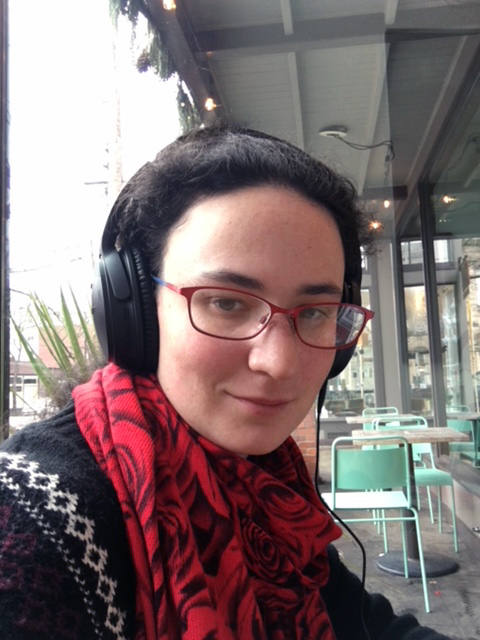
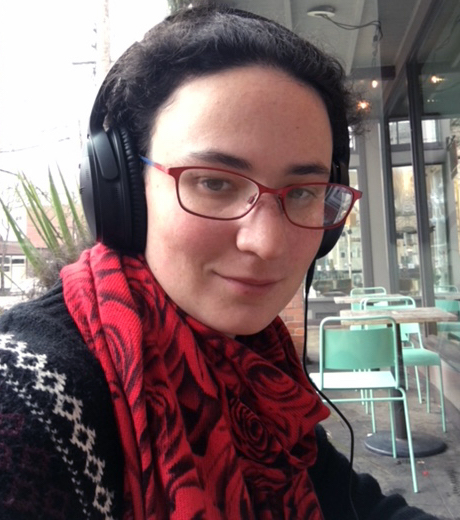
From Sam

diff --git a/index.html b/index.html
@@ -8,9 +8,38 @@
   </head>
 
   <body>
+    <center>
+      <table border="0" cellpadding="0" cellspacing="0">
+        <tbody>
     <h1>Molly Carton</h1>
 
-    <img src="icon_2019.JPG" style="width:120px;height:160px;">
+    
+
+        <tr>
+      <td width="220"><img src="icon_2019.JPG" style="width:115px;height:130px;">
+       </td>
+      <td width="500"><b><font size="5">Molly Carton</b></font>
+      <p>PhD Candidate </p>
+
+      <p><font face="Times New Roman"><font face="Arial"><a href="http://www.me.uw.edu/">Department of Mechanical Engineering</a><br />
+      <a href="http://www.uw.edu/">University of Washington, Seattle</a><br />
+      Email: <font size="2"><b>mcarton AT uw DOT edu</b></font></font></font></p>
+      </td>
+    </tr>
+
+<tr>
+<td align="left" colspan="3" height="20" valign="top">
+I am a PhD student in the Transformative Robotics Lab in the Department of Mechanical Engineering, University of Washington, Seattle.
+
+I recieved my Bachelors in Physics at Princeton University in 2014. I have a Masters in Applied Math from UW Seattle (Spring 2018).  
+
+</td> </tr>
+
+
+<tr>
+<td align="left" colspan="3" height="20" valign="top">
+<h2> Research Interests </h2>
+
 <!--
    <p>
    I am a PhD student in the Transformative Robotics Lab at the University of Washington, Seattle.
@@ -28,6 +57,11 @@
     </p>
   -->
 
+</td> </tr>
+
+
+<tr>
+<td align="left" colspan="3" height="20" valign="top" >
 <p>
 
 <h2> Publications </h2>
@@ -35,40 +69,46 @@
 <table>
   <col width="120">
   <col width="550">
+
+ 
   </tr>
     </td>
-    <td> title </td>
+    <td> ASME </td>
     <td>
-    Molly Carton
+    Yurtoglu, M., Carton, M, and Storti, D. "Treat All Integrals as Volume Integrals: A Unified, Parallel, Grid-Based Method for Evaluation of Volume, Surface, and Path Integrals on Implicitly Defined Domains." ASME J. Comput. Inf. Sci. Eng 18.2 (2018): 021013.
     </td>
   </tr>
-<!--
+
   <tr>
     <td>
       <table>
         <tr>
-         <td> SIGGRAPH ASIA 2019 </td>
+         <td> SFF 2019 </td>
          </tr>
       </table>
     </td>
     <td>
+Carton, M., and Ganter, M. Fast and Simple Printing of Graded Auxetic Structures
+      </td>
+    <td>
       
-      <a href="docs/siga19-cr.pdf">pdf</a>
-      <a href="https://grail.cs.washington.edu/projects/carpentrycompiler/">website</a>
-      <a href="https://www.washington.edu/news/2019/12/02/carpentry-compiler/">UW news</a>
-      <a href="http://www.dailyuw.com/science/article_5a21a1ce-5c3a-11ea-bf1d-e3dabdecfbbc.html">The Daily of UW</a>
+
+      <a href="blah.pdf">slides</a>
     </td>
     <td>
   </tr>
-    </td>
--->
+
+</td> </tr>
+
+
+
+
 
   <tr>
     <td>Senior thesis, April 2014</td>
-    <td> Curvature Relocation of MreB Using AFM Control of Cell Shape </td>
+    <td> Molly Carton. Curvature Relocation of MreB Using AFM Control of Cell Shape. </td>
     <td>
-    Molly Carton. 
-    <a href="http://arks.princeton.edu/ark:/88435/dsp01j098zb29w">website</a>
+    <a href="http://arks.princeton.edu/ark:/88435/dsp01j098zb29w">Princeton archive</a>
 
     </td>
   </tr>
@@ -77,21 +117,14 @@
 
 </p>
 
-<!--<h2>Fun stuff</h2>
-<p>
+<h2>CV</h2>
 
-  We have a fantastic <a target="_blank"
-    href="http://raceconditionrunning.com/">running club</a> as part of which
-  we run all over Seattle. We also take part in numerous marathons,
-  half-marathons and relay races!
+<a href="[]">CV</a>
 
-</p>
--->
+
 <h2>Contact</h2>
 
-<p> Contact me by email: <a href=
-  "mailto:mcarton@uw.edu">mcarton@uw.edu </a>
-</p>
+
 
 <p> 
 <br>
@@ -103,5 +136,8 @@ University of Washington
 <br>
 Seattle, WA 98195
 
+</tbody>
+</table>
+</center>
 </body>
 </html>

diff --git a/index.css b/index.css
@@ -1,5 +1,5 @@
 body {
-  font-family: arial;
+  font-family: times;
 	margin:40px
  	auto;
   max-width:750px;
